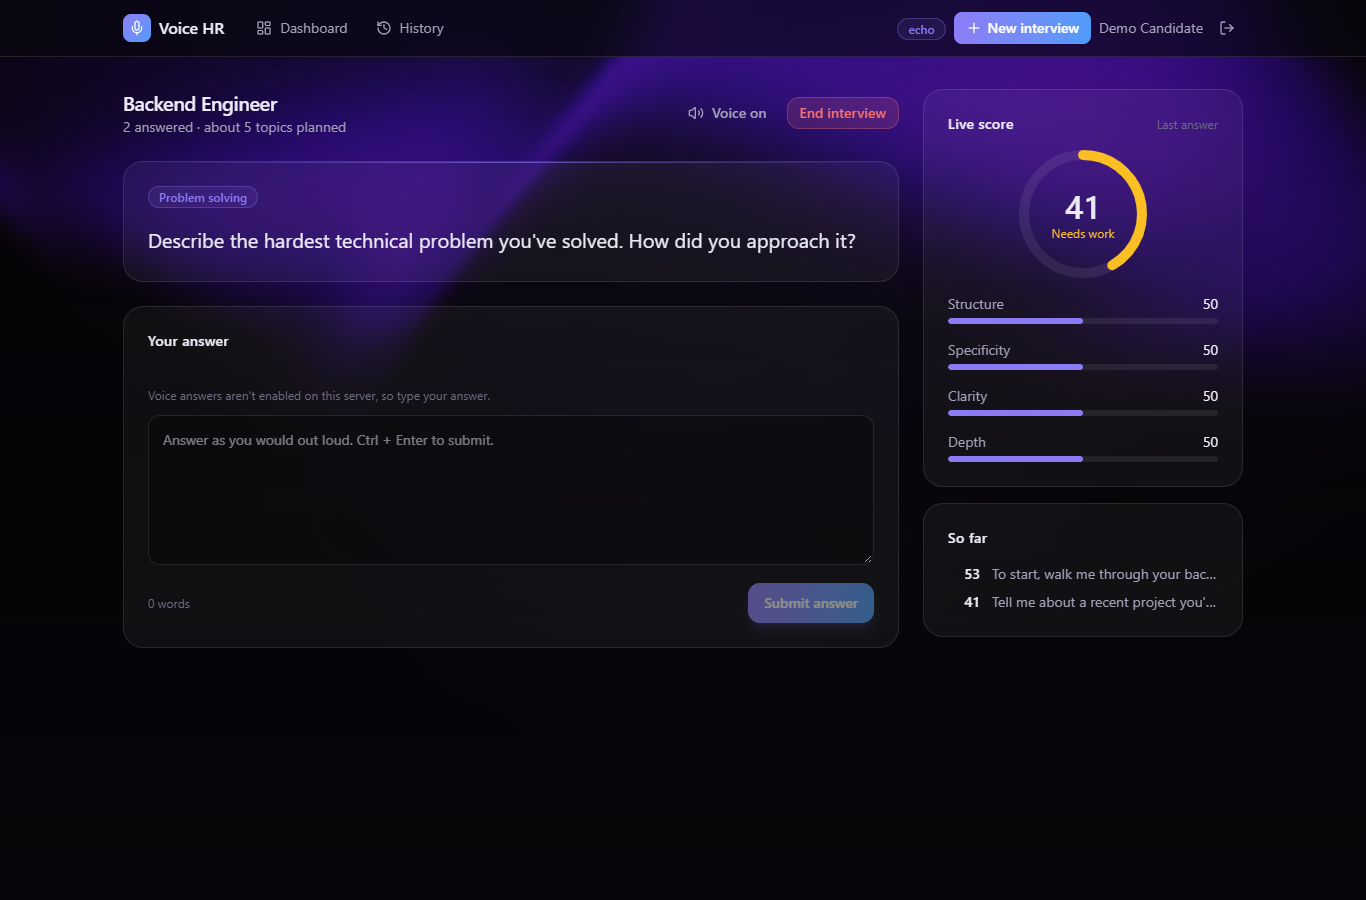
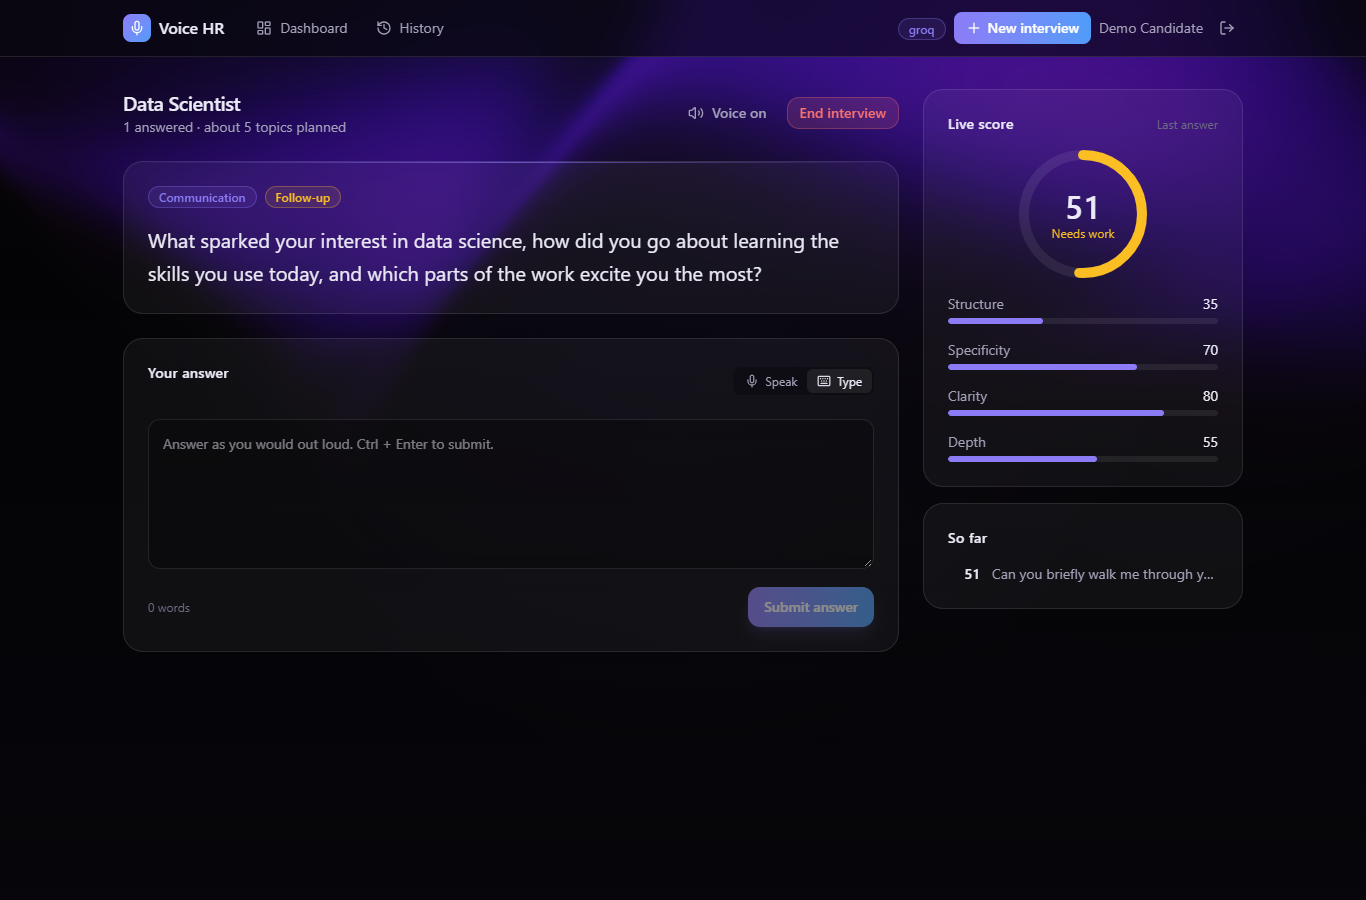
Link the live demo and use screenshots from the deployed app

diff --git a/README.md b/README.md
@@ -15,7 +15,12 @@
 </p>
 
 <p align="center">
-  <img src="docs/images/interview.png" alt="A live interview: the current question, the answer box, and a live scorecard" width="100%" />
+  <a href="https://voice-hr.onrender.com"><strong>▶ Try the live demo</strong></a> — one click, no sign-up
+  <br /><sub>Free hosting: the first visit after a quiet spell takes about a minute to wake.</sub>
+</p>
+
+<p align="center">
+  <img src="docs/images/interview.png" alt="A live interview: an adaptive follow-up question, the answer box, and a live rubric scorecard" width="100%" />
 </p>
 
 You pick a role, a level and an interviewer style. The interviewer plans an
@@ -42,8 +47,9 @@ feedback that quotes what you actually said.
 | Landing | Interview setup |
 |---|---|
 | <img src="docs/images/landing.png" alt="Landing page" /> | <img src="docs/images/setup.png" alt="Interview setup: role, level, interviewer persona, CV" /> |
+| **Answering by voice** | **Progress dashboard** |
+| <img src="docs/images/interview-voice.png" alt="Voice answer mode with the question being read aloud" /> | <img src="docs/images/dashboard.png" alt="Progress dashboard" /> |
 
-<img src="docs/images/dashboard.png" alt="Progress dashboard: score trend with rolling average, competency and rubric breakdowns" width="100%" />
 
 ---
 
